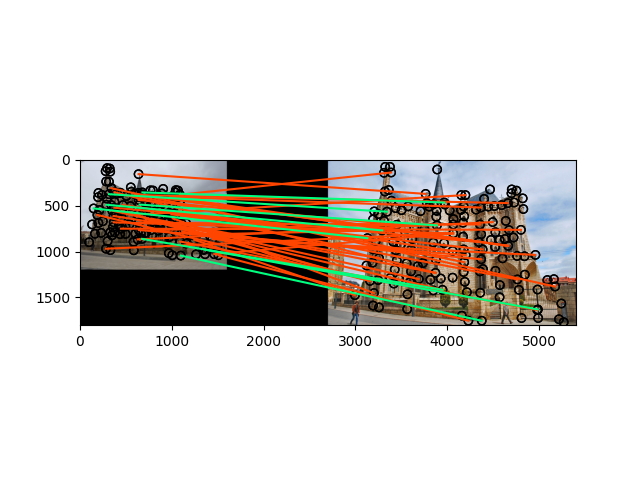
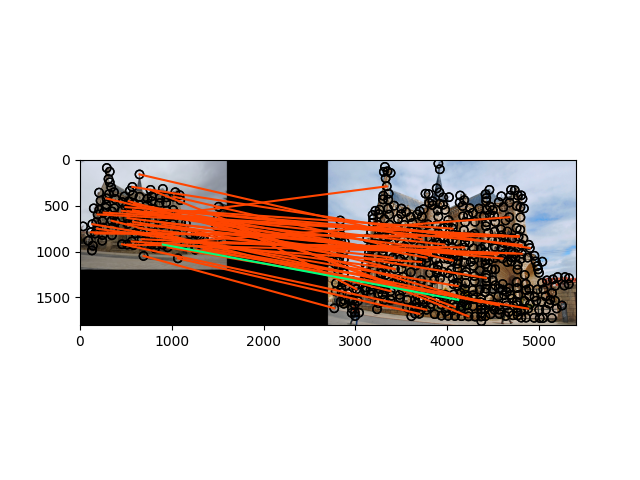
attempt the 16x16 gaussian, but didn't help

Changed region(s): [[0.125, 0.3438, 0.9062, 0.6875]]

diff --git a/HW2/code/student.py b/HW2/code/student.py
@@ -4,6 +4,7 @@ from skimage import filters, feature, img_as_int
 from skimage.measure import regionprops
 import cv2
 import scipy as sp
+from scipy.stats import multivariate_normal 
 
 """
 Next steps:
@@ -112,9 +113,10 @@ def get_interest_points(image, feature_width):
     C_truncated = C
 
     # STEP 4: Peak local max to eliminate clusters. (Try different parameters.)
-    threshold = np.percentile(C_truncated, 90)
-    min_distance = 20
-    coordinates = feature.peak_local_max(C_truncated, min_distance=min_distance, threshold_abs=threshold, exclude_border=feature_width)
+    threshold = np.percentile(C_truncated, 99)
+    min_distance = feature_width
+    coordinates = feature.peak_local_max(C_truncated, min_distance=min_distance, threshold_rel=0.01, exclude_border=feature_width)
+    # coordinates = feature.peak_local_max(C_truncated, min_distance=min_distance, threshold_abs=threshold, exclude_border=feature_width)
     # coordinates = feature.peak_local_max(C_truncated, min_distance=min_distance, threshold_abs=threshold)
     # print("num coordinates: ", len(coordinates))
     # xs = coordinates[:, 1] + feature_width
@@ -317,6 +319,20 @@ def get_features(image, x, y, feature_width):
     # dirs_considered = []
     # indices = []
 
+    # def gaussian_kernel(size, sigma=1):
+    #     kernel = np.zeros((size, size))
+    #     mean = (size - 1) / 2
+    #     covariance = np.eye(2) * (sigma ** 2)
+    #     for i in range(size):
+    #         for j in range(size):
+    #             kernel[i, j] = multivariate_normal(mean=[mean, mean], cov=covariance).pdf([i, j])
+    #     return kernel / np.sum(kernel)
+
+    # kernel_size = 16
+    # sigma = 8
+    # gaussian_kernel_2d = gaussian_kernel(kernel_size, sigma)
+    # plt.imshow(gaussian_kernel_2d, cmap='gray')
+
     # Iterate over keypoints
     for y_coordinate, x_coordinate in zip(x, y):
 
@@ -343,13 +359,14 @@ def get_features(image, x, y, feature_width):
 
                         # histogram4x4[int(direction[original_x][original_y] / (np.pi / 4))] += magnitude[original_x, original_y]
                         histogram4x4[int((direction[original_x][original_y]) / (np.pi / 4))] += 1         # more accuracy as of now
+                        # histogram4x4[int(direction[original_x][original_y] / (np.pi / 4))] += (magnitude[original_x, original_y] * gaussian_kernel_2d[((i + 2) * 4) + k][((j + 2) * 4) + l])
                         # dirs_considered.append(direction[original_x][original_y])
                         # indices.append(int(direction[original_x][original_y] / (np.pi / 4)))
                         
                         # histogram4x4[int(direction[original_x][original_y] / (np.pi / 4))] += 1
                 # histogram4x4 /= np.linalg.norm(histogram4x4)
                 # histogram4x4 /= np.max(histogram4x4)
-                histogram4x4 = normalize_array(histogram4x4)
+                # histogram4x4 = normalize_array(histogram4x4)
                 histogram16x16.append(histogram4x4)
         histogram16x16 = np.array(histogram16x16).flatten()
         histogram16x16 = normalize_array(histogram16x16)
